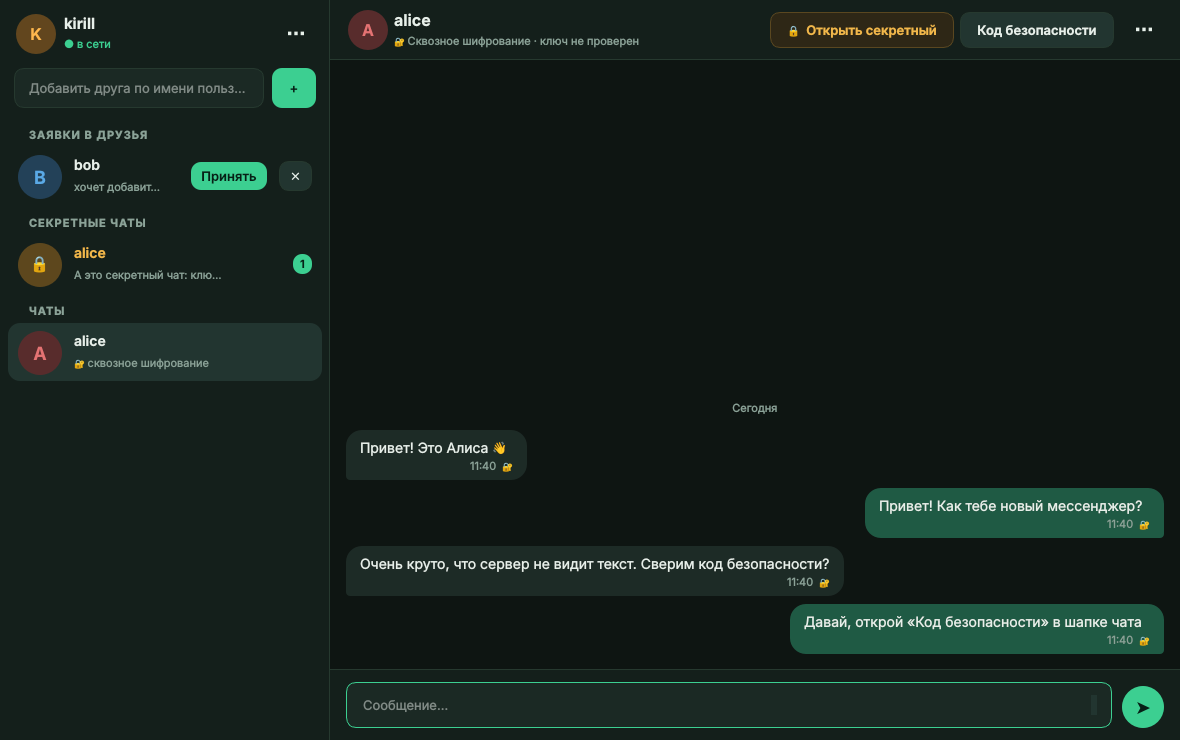
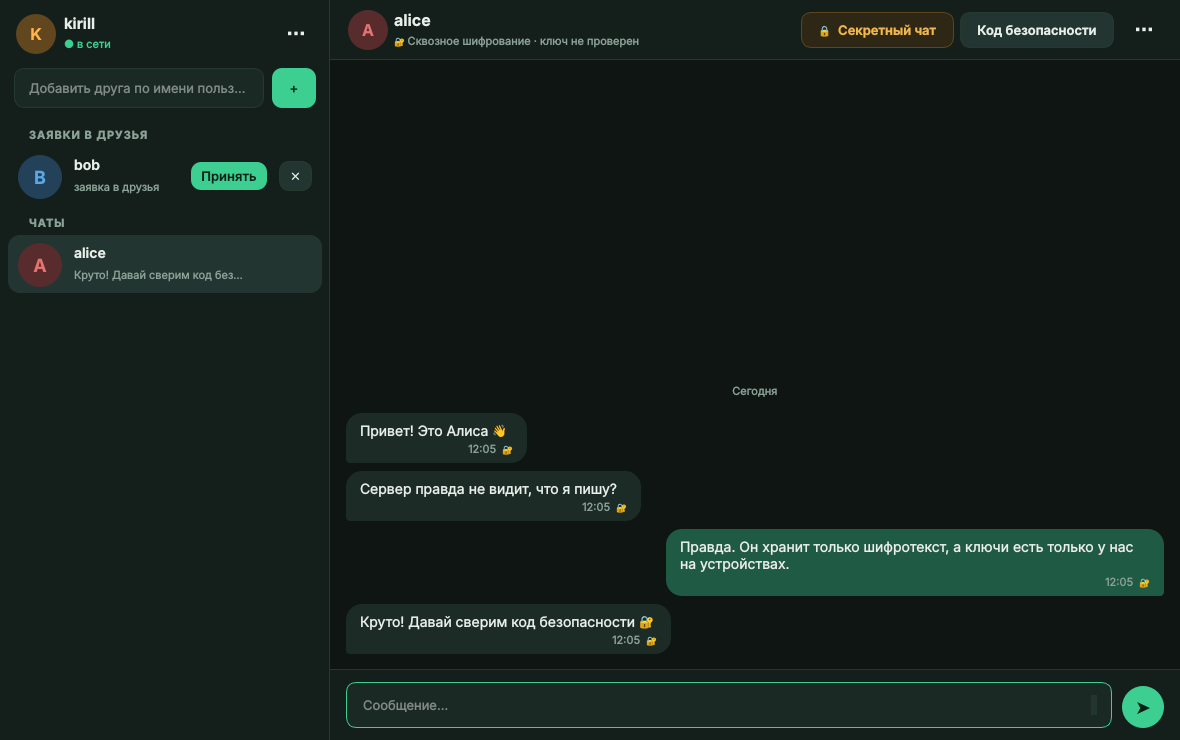
Полный прогон: новые скриншоты всех сценариев, README с пошаговым обзором
- 18 скриншотов с одного прогона на чистой базе (сайт, TOTP, мессенджер, секретный чат, смена ключа, завершение сеанса с сайта)
- короче подпись заявки в друзья, логотип сайта не переносится на телефоне

diff --git a/web/static/style.css b/web/static/style.css
@@ -38,7 +38,7 @@ a:hover { text-decoration: underline; }
   display: flex; align-items: center; justify-content: space-between;
   padding: 18px clamp(16px, 5vw, 56px);
 }
-.brand { display: flex; align-items: center; gap: 10px; color: var(--text); font-weight: 800; font-size: 20px; }
+.brand { display: flex; align-items: center; gap: 10px; color: var(--text); font-weight: 800; font-size: 20px; white-space: nowrap; }
 .brand svg { color: var(--accent); }
 .brand:hover { text-decoration: none; }
 .nav nav { display: flex; align-items: center; gap: 18px; }
@@ -135,6 +135,8 @@ input:focus { border-color: var(--accent); box-shadow: 0 0 0 3px rgba(124, 108, 
 @media (max-width: 520px) {
   .card { padding: 24px 18px; }
   .nav nav { gap: 10px; }
+  .brand { font-size: 17px; }
+  .nav .btn { padding: 8px 12px; }
   .events th:nth-child(2), .events td:nth-child(2) { display: none; }
 }
 

diff --git a/client/ui/main_window.py b/client/ui/main_window.py
@@ -172,7 +172,7 @@ class MainWindow(QMainWindow):
     def _add_row(self, kind: str, peer: str):
         key = (kind, peer)
         subtitles = {
-            "request": "хочет добавить вас в друзья",
+            "request": "заявка в друзья",
             SECRET: "🔒 секретный чат",
             REGULAR: "🔐 сквозное шифрование",
             "outgoing": "ждёт ответа",

diff --git a/README.md b/README.md
@@ -7,11 +7,9 @@
 
 Проект вырос из курсовой работы (мессенджер на gRPC и PySide6) и отдельного проекта [2fa-auth-site](https://github.com/ShishaKirich/2fa-auth-site). Оба переписаны и объединены: один аккаунт, одна база пользователей, общие правила входа.
 
-| | |
-|---|---|
-| ![Вход](docs/screenshots/messenger/01-login.png) | ![Код подтверждения](docs/screenshots/messenger/02-code.png) |
-| ![Обычный чат](docs/screenshots/messenger/04-chat.png) | ![Секретный чат](docs/screenshots/messenger/06-secret-reply.png) |
-| ![Код безопасности](docs/screenshots/messenger/07-safety.png) | ![Кабинет на сайте](docs/screenshots/web/4-dashboard.png) |
+![Секретный чат](docs/screenshots/messenger/06-secret.png)
+
+**Стек:** Python 3.10+ · gRPC (`grpc.aio`) · Protocol Buffers · PySide6 · FastAPI · SQLite · `cryptography` · Argon2 · pyotp
 
 ## Что умеет
 
@@ -29,6 +27,44 @@
 - Друзья, заявки, блокировки. Все права проверяет сервер.
 
 Подробнее: [как устроено шифрование](docs/CRYPTO.md), [модель угроз](SECURITY.md).
+
+## Как это выглядит
+
+Все скриншоты сняты при одном сквозном прогоне на чистой базе: настоящий сервер с TLS, настоящий клиент, коды из журнала сервера.
+
+### 1. Аккаунт на сайте
+
+| | |
+|---|---|
+| ![Главная](docs/screenshots/web/01-home.png) **Главная страница** | ![Регистрация](docs/screenshots/web/02-register.png) **Регистрация.** Имя пользователя — логин в мессенджере. Генератор паролей и индикатор надёжности |
+| ![Код с почты](docs/screenshots/web/03-verify.png) **Подтверждение почты** шестизначным кодом | ![Кабинет](docs/screenshots/web/04-dashboard.png) **Личный кабинет:** сеансы, доверенные устройства, журнал входов |
+
+### 2. Приложение-аутентификатор
+
+| | |
+|---|---|
+| ![Настройки](docs/screenshots/web/05-settings.png) **Настройки:** смена пароля и почты, подключение TOTP | ![QR-код](docs/screenshots/web/06-totp-setup.png) **QR-код** для Google Authenticator, Яндекс Ключа и других |
+| ![Резервные коды](docs/screenshots/web/07-backup-codes.png) **10 резервных кодов** на случай потери телефона, показываются один раз | ![Вход по приложению](docs/screenshots/web/09-totp-login.png) **Вход по коду из приложения.** Письмо больше не нужно |
+
+### 3. Вход в мессенджер
+
+| | |
+|---|---|
+| ![Вход](docs/screenshots/messenger/01-login.png) **Шаг 1:** email и пароль от аккаунта на сайте | ![Второй фактор](docs/screenshots/messenger/02-totp.png) **Шаг 2:** код из приложения (или с почты, если приложение не подключено) |
+
+### 4. Переписка
+
+| | |
+|---|---|
+| ![Заявки](docs/screenshots/messenger/03-requests.png) **Заявки в друзья.** Писать можно только друзьям, это проверяет сервер | ![Чат](docs/screenshots/messenger/04-chat.png) **Обычный чат** со сквозным шифрованием: 🔐 у каждого сообщения |
+| ![Код безопасности](docs/screenshots/messenger/05-safety.png) **Код безопасности:** 60 цифр, сверяются с собеседником лично | ![Секретный чат](docs/screenshots/messenger/06-secret.png) **Секретный чат:** Double Ratchet, таймер самоуничтожения, только на устройстве |
+
+### 5. Защита от подмены и кражи сеанса
+
+| | |
+|---|---|
+| ![Ключ изменился](docs/screenshots/messenger/07-key-changed.png) **Собеседник сменил ключи** (переустановка или подмена): предупреждение, секретный чат закрыт | ![Сеансы](docs/screenshots/web/11-dashboard-sessions.png) **Сеанс мессенджера виден в кабинете** вместе с журналом входов |
+| ![Сеанс завершён](docs/screenshots/messenger/08-session-ended.png) **«Завершить» на сайте** — клиент отключается в течение 30 секунд | ![Телефон](docs/screenshots/web/10-mobile.png) **Сайт на телефоне** |
 
 ## Быстрый старт (Windows)
 
@@ -99,7 +135,7 @@ pip install -r requirements-dev.txt
 pytest -q
 ```
 
-77 тестов: сценарии сайта, вход в мессенджер, права на сервере, переписка двух клиентов через настоящий сервер, подделка и повтор сообщений, прямая секретность.
+78 тестов: сценарии сайта, вход в мессенджер, права на сервере, переписка двух клиентов через настоящий сервер, подделка и повтор сообщений, прямая секретность.
 
 На каждый push в CI запускаются тесты на Python 3.10 и 3.13, проверка актуальности сгенерированного proto, `bandit`, `pip-audit`, `gitleaks` и CodeQL.
 
